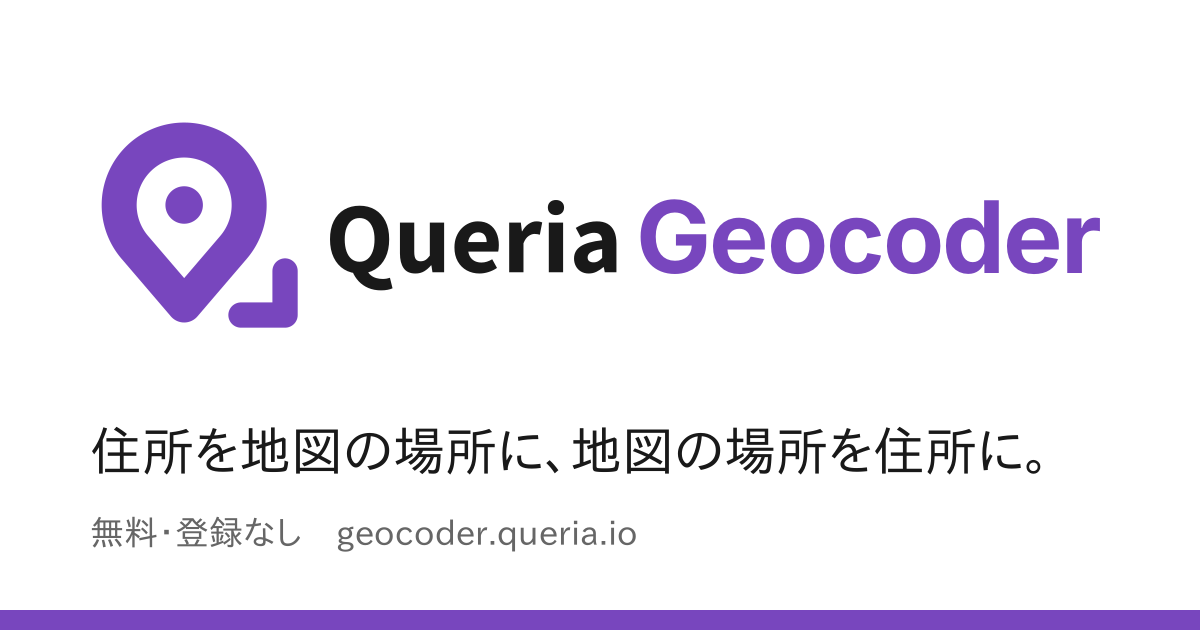
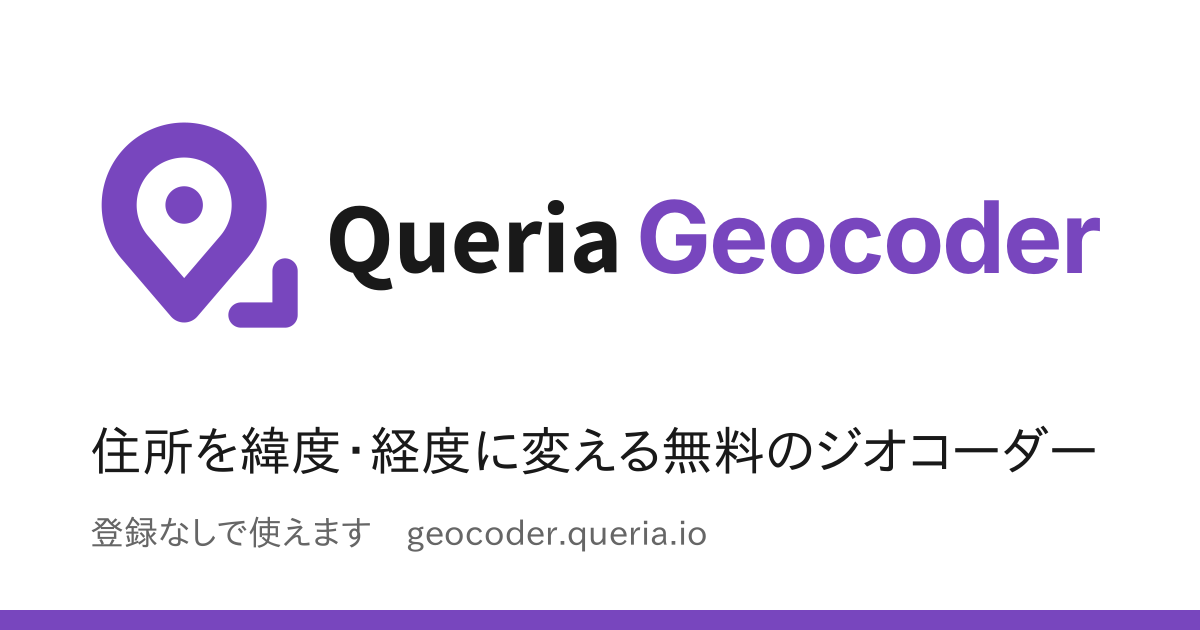
docs: LP に仕組み・無料の理由・答えを確かめられるようにしていることを書き、見出しの対句をやめる
- 先頭の見出しを「住所を地図の場所に。地図の場所を住所に。」から、何をするものかを言う一文にする
- 特徴の欄を、仕組み・無料で使える理由・答えを確かめられるようにしていることの 3 つに分ける
- 共有画像の一文も同じ言い方にする

Changed region(s): [[0.185, 0.6635, 0.925, 0.754], [0.0617, 0.8143, 0.5858, 0.8746]]

diff --git a/worker/site/index.html b/worker/site/index.html
@@ -6,7 +6,7 @@
     <title>Queria Geocoder</title>
     <meta
       name="description"
-      content="住所を地図の場所に、地図の場所を住所に。日本の住所を緯度・経度と地域コードに変える無料のジオコーダー。登録なしで使えます。"
+      content="日本の住所を緯度・経度と地域コードに変える無料のジオコーダーです。地図で押した場所の住所も調べられます。登録はいりません。"
     />
     <link rel="icon" href="/favicon.ico" sizes="48x48" />
     <link rel="icon" href="/favicon.svg" type="image/svg+xml" />
@@ -16,7 +16,7 @@
     <meta property="og:title" content="Queria Geocoder" />
     <meta
       property="og:description"
-      content="住所を地図の場所に、地図の場所を住所に。無料・登録なしで使えるジオコーダー。"
+      content="日本の住所を緯度・経度と地域コードに変える無料のジオコーダーです。登録はいりません。"
     />
     <meta property="og:image" content="https://geocoder.queria.io/og.png" />
     <meta name="twitter:card" content="summary_large_image" />
@@ -29,6 +29,7 @@
       >
       <nav>
         <a href="#uses">使いみち</a>
+        <a href="#how">仕組み</a>
         <a href="#price">料金</a>
         <a href="#dev">開発者の方へ</a>
       </nav>
@@ -36,9 +37,10 @@
 
     <main>
       <section class="hero">
-        <h1>住所を地図の場所に。<br />地図の場所を住所に。</h1>
+        <h1>日本の住所を緯度・経度に変えるジオコーダーです</h1>
         <p>
-          日本の住所を緯度・経度に変えたり、地図で指した場所の住所を調べたりできます。住所録のファイルをまとめて変換することもできます。無料で、登録なしで使えます。
+          地図で押した場所の住所を調べることもできます。住所の列がある CSV
+          は、まとめて変換できます。無料で、登録はいりません。
         </p>
       </section>
 
@@ -75,7 +77,7 @@
         <div id="panel-batch" role="tabpanel" aria-labelledby="tab-batch" class="panel" hidden>
           <p class="lead">
             住所の列がある CSV を選ぶと、緯度・経度と地域コードの列を足したファイルを作ります。1
-            回に 1,000 行まで。
+            回に 1,000 行まで変換できます。
           </p>
           <div class="batch">
             <label>CSV ファイル <input id="batch-file" type="file" accept=".csv,text/csv" /></label>
@@ -135,21 +137,48 @@
         </ul>
       </section>
 
-      <section id="why">
-        <h2>Queria Geocoder の特徴</h2>
+      <section id="how">
+        <h2>仕組み</h2>
+        <p>
+          デジタル庁のアドレス・ベース・レジストリ（国の住所データ）を毎月取り込み、住所を探すための表を作っています。住所を受け取ると、まず都道府県と市区町村を読み取り、その市区町村の町名・番地の表だけを読んで当てます。返すのは、当たった町名や番地の代表の点の緯度・経度です。
+        </p>
+        <p>
+          「1-3」と「1丁目3番」、旧字体と新字体のような書き方の違いは、デジタル庁が公開している
+          abr-geocoder
+          と同じ規則で直しています。地図から住所を調べるときは、押した場所にいちばん近い番地の点を探します。
+        </p>
+      </section>
+
+      <section id="free">
+        <h2>無料で使える理由</h2>
+        <p>
+          住所 1
+          件を調べる費用がとても小さいからです。表は前もって作ってあり、問い合わせのたびに読むのはその市区町村の分だけです。常に動かしておく大きなサーバーも持っていません。
+        </p>
+        <p>
+          この費用は Queria が持ちます。Queria
+          は、その場所の人口や地価などを付けて使う法人向けの契約で収入を得ています。住所から緯度・経度と地域コードを調べる部分は、無料で出す方針です。
+        </p>
+      </section>
+
+      <section id="trust">
+        <h2>答えを確かめられるようにしていること</h2>
         <ul class="points">
-          <li><strong>無料で使える</strong>登録もいりません。</li>
           <li>
-            <strong>住所録を預からない</strong
-            >ファイルはブラウザの中で読み、住所の文字だけを使います。
+            <strong>元は国の公開データです</strong
+            >答えには毎回、出典と使ったデータの日付が付きます。
           </li>
           <li>
-            <strong>どこまで分かったかを毎回返す</strong
-            >号まで分かったのか、町名までなのかを答えに付けます。
+            <strong>どこまで分かったかを答えごとに返します</strong
+            >号まで分かったのか、町名までしか分からなかったのかを分けて返します。町名までしか分からなかった住所に、番地の点を返すことはしません。
           </li>
           <li>
-            <strong>国の公開データが元</strong
-            >デジタル庁のアドレス・ベース・レジストリなどを使い、出典を答えに付けます。
+            <strong>abr-geocoder の試験と同じ問題を流しています</strong>町名までの 441
+            問と住居表示の 122 問は、abr-geocoder と同じ答えになります。直すたびに流し直します。
+          </li>
+          <li>
+            <strong>住所録のファイルは送りません</strong
+            >ファイルはこのページの中で読み、住所の文字だけを変換のために送ります。
           </li>
         </ul>
       </section>
